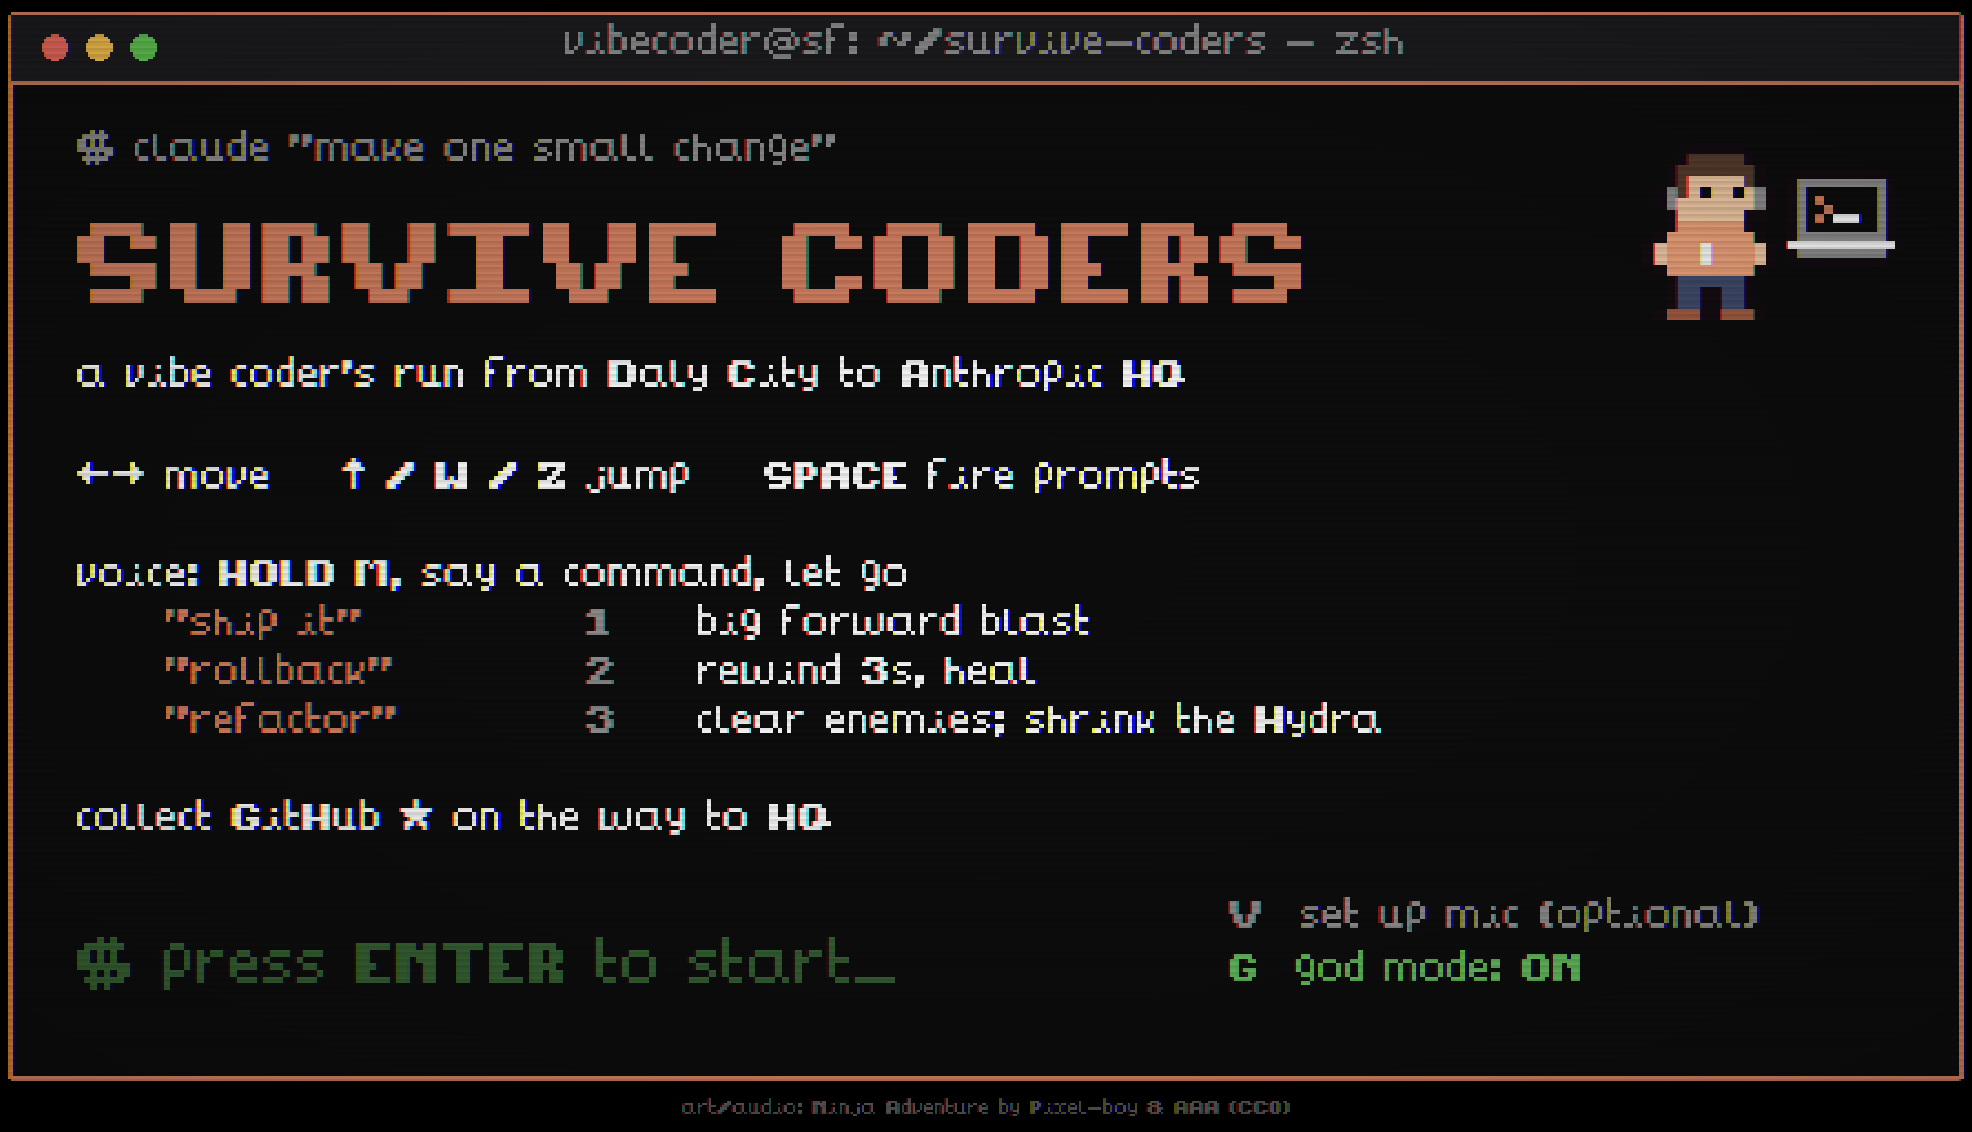
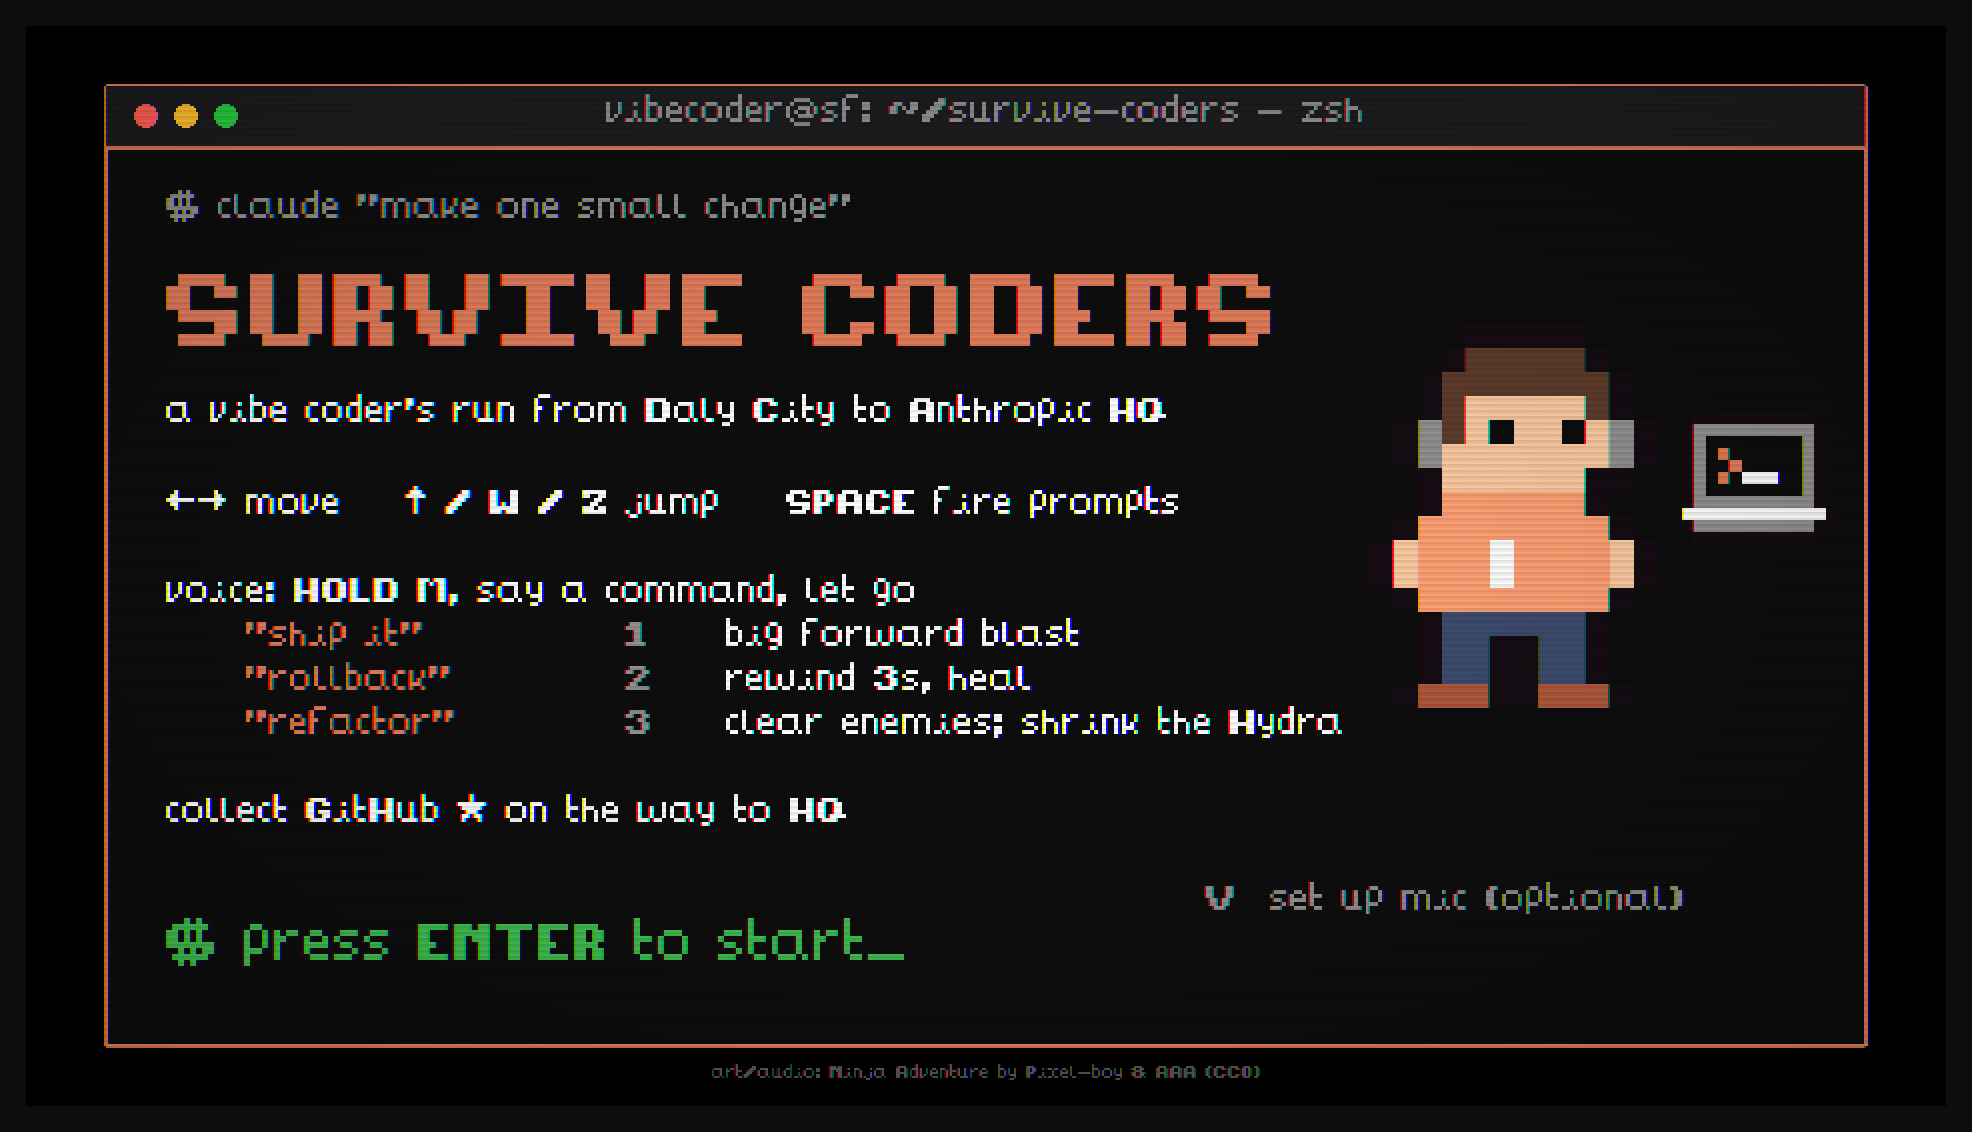
Hide god mode: type GOD on the title screen to toggle it
The title no longer lists god mode or reacts to G. Typing G-O-D toggles it (still saved in
localStorage) with a one-second "god mode on/off" note for whoever typed it; the in-game
GOD MODE badge still shows while it's on. The README drops the key from the walkthrough,
feature list, controls table and architecture box, and the title screenshot is recaptured
(it also shows the bigger hero now).

Verified with real key presses: G-O-D toggles on, again toggles off, and after two title
re-entries one typing flips it exactly once (one live combo listener); a run then shows
the HUD badge.

Changed region(s): [[0.0, 0.0, 1.0, 0.9894], [0.5877, 0.773, 0.8971, 0.8657]]

diff --git a/src/scenes/Title.js b/src/scenes/Title.js
@@ -38,7 +38,8 @@ export default class Title extends Phaser.Scene {
     uiText(this, left + 230, 296, '1\n2\n3', { size: 16, color: '#8b8b8b' });
     uiText(this, left + 280, 296, 'big forward blast\nrewind 3s, heal\nclear enemies; shrink the Hydra', { size: 16, color: '#f5f5f5' });
 
-    // Demo god mode: no damage (pits still respawn you). Remembered across reloads.
+    // Demo god mode: no damage (pits still respawn you). Remembered across reloads. Deliberately
+    // unlisted: typing GOD here toggles it, and only the in-game HUD badge shows it's on.
     let god = false;
     try {
       god = localStorage.getItem('sc_god') === '1';
@@ -56,20 +57,19 @@ export default class Title extends Phaser.Scene {
       await voice.prime();
       showMic();
     });
-    const godText = uiText(this, left + 520, 452, '', { size: 16 });
-    const showGod = () => {
-      godText.setText(`G  god mode: ${god ? 'ON' : 'off'}`);
-      godText.setTint(god ? 0x3fb950 : 0x8b8b8b);
-    };
-    showGod();
-    this.input.keyboard.on('keydown-G', () => {
+    const godNote = uiText(this, left + 520, 452, '', { size: 16, color: '#3fb950' }).setAlpha(0);
+    this.input.keyboard.createCombo('GOD', { resetOnMatch: true });
+    this.input.keyboard.on('keycombomatch', () => {
       god = !god;
       try {
         localStorage.setItem('sc_god', god ? '1' : '0');
       } catch {
         /* ignore */
       }
-      showGod();
+      // Brief confirmation for whoever typed it, then gone.
+      godNote.setText(`god mode ${god ? 'on' : 'off'}`).setAlpha(1);
+      this.tweens.killTweensOf(godNote);
+      this.tweens.add({ targets: godNote, alpha: 0, delay: 900, duration: 400 });
     });
 
     const prompt = uiText(this, left, 446, '$ press ENTER to start_', { size: 24, color: '#3fb950' });

diff --git a/README.md b/README.md
@@ -45,8 +45,8 @@ Live URL checked 2026-09-26: HTTP 200, deployed from `master` at `1d9b806`.
 
 ## Product walkthrough
 
-**1. Title screen.** A terminal window with the controls, `V` to set up the microphone, and `G`
-to toggle god mode for live demos (shown on).
+**1. Title screen.** A terminal window with the controls, the vibe coder as key art, and `V` to
+set up the microphone.
 
 ![Title screen](docs/screenshots/01-title.png)
 
@@ -110,7 +110,7 @@ A dated design review with before and after screenshots is in
 - A MAX power-up past the second pit: grab the chip and holding fire streams random characters at 25 a second from a 160-token budget, until the usage limit hits
 - Platformer feel: coyote time, a 120 ms jump buffer, half gravity at the jump apex, a faster fall, hit stop, squash and stretch, and camera lookahead
 - Every piece of text rendered in an 8x8 pixel font; a CRT scanline post-effect
-- Pause, mute, god mode, and a boss checkpoint that restores your star total on retry
+- Pause, mute, and a boss checkpoint that restores your star total on retry
 
 ## Controls
 
@@ -123,7 +123,7 @@ A dated design review with before and after screenshots is in
 | Voice power | Hold M, say the command, release |
 | Powers without voice | 1 ship it, 2 rollback, 3 refactor |
 | Pause / mute | P or Esc / N |
-| Title screen | Enter start, V set up microphone, G god mode |
+| Title screen | Enter start, V set up microphone |
 | Intro | Enter, Space, or Esc skips |
 | End screen | Enter retry (from the boss if you died there), T title |
 
@@ -161,7 +161,7 @@ screen, `?debug` draws the physics bodies, and `?fx=off` turns off the CRT effec
 │                                                                         │
 │  Art: drawn to canvas textures at boot (sprites.js, backdrops.js,       │
 │       hqArt.js) + public/assets (2 sprite sheets, font, audio)          │
-│  Storage: localStorage key sc_god only (god mode toggle)                │
+│  Storage: one localStorage key (a demo setting)                         │
 │                                                                         │
 │  src/voice.js ── hold M ──→ Web Speech API                              │
 └──────────────────────────────┼──────────────────────────────────────────┘
